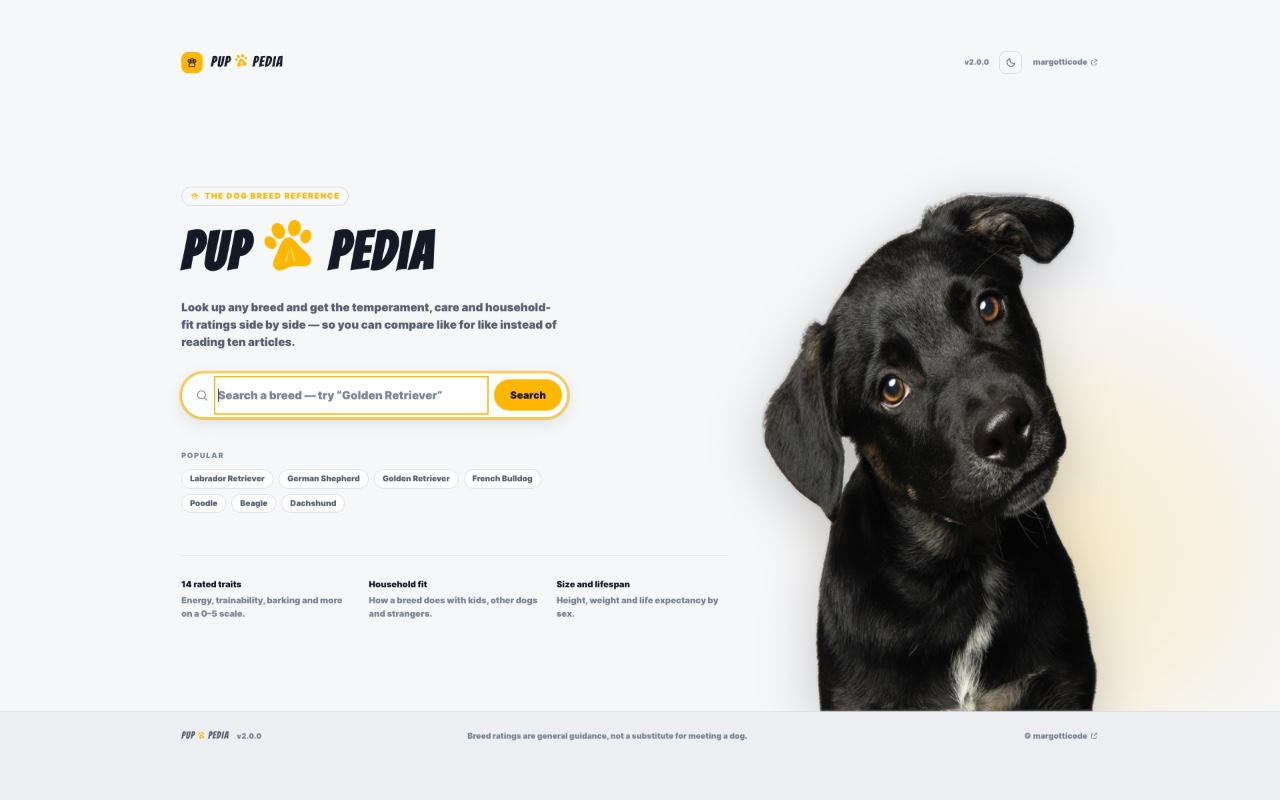
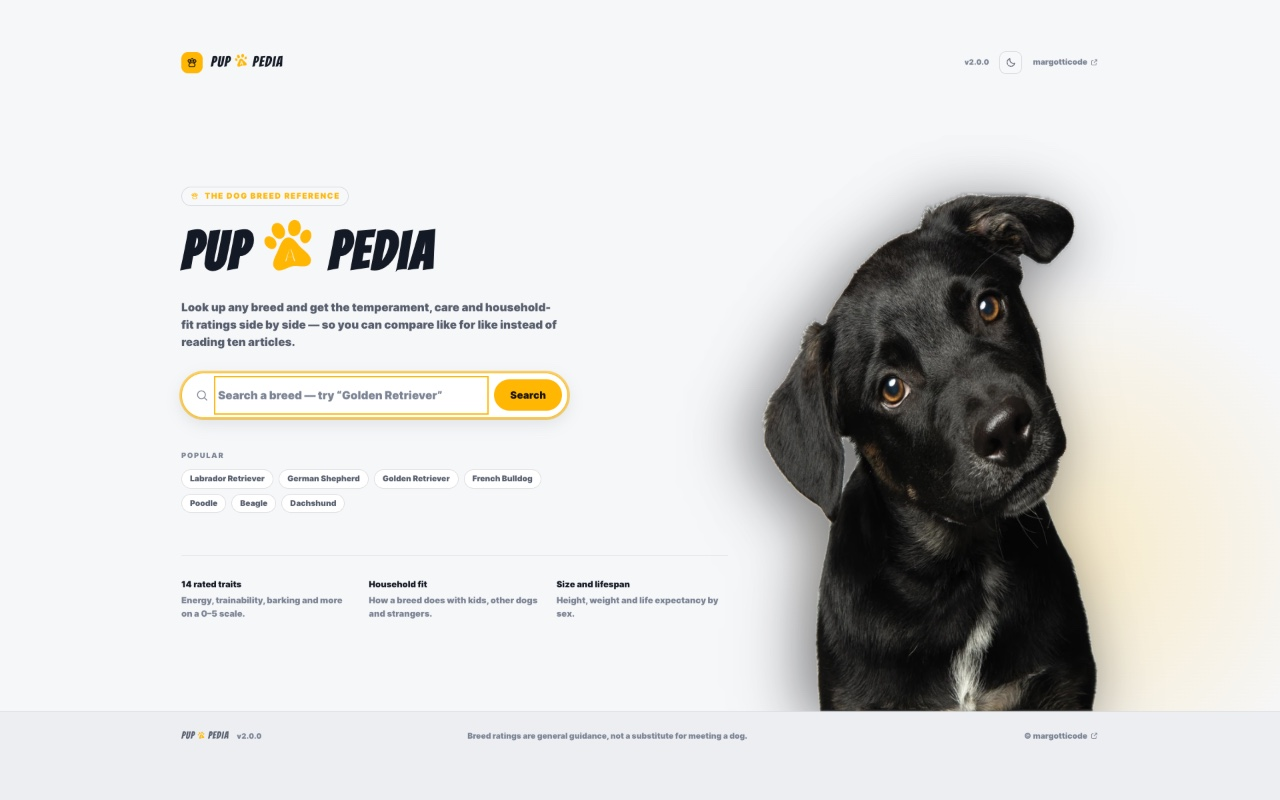
Add serverless proxy so the breed API key stays server-side
Vite inlines any VITE_ variable into the public JS bundle at build time, so
VITE_API_KEY was shipping to every visitor's browser. Vercel's env-add flow
refused to add it non-interactively for exactly that reason.

Fix: api/breeds.js is a serverless function that holds the credential
(DOG_API_URL / DOG_API_KEY, no VITE_ prefix) and proxies the lookup; the
client now calls /api/breeds and never sees the key. Verified the production
bundle no longer contains the key string and does call the new endpoint.

Local `npm run dev` still falls back to calling the upstream API directly
using VITE_API_URL/VITE_API_KEY from Desktop-Version/.env, which only exists
on a developer machine and is never present in the hosting environment.

Also:
- vercel.json at the repo root points the build at Desktop-Version/, since
  the repo root is the separate Expo/React Native app.
- Hero: more pronounced left-side glow shadow behind the cut-out, in addition
  to the grounding shadow below it.
- Regenerated docs/preview.jpg with the new shadow.

diff --git a/Desktop-Version/src/lib/api.js b/Desktop-Version/src/lib/api.js
@@ -1,5 +1,18 @@
-const API_URL = import.meta.env.VITE_API_URL;
-const API_KEY = import.meta.env.VITE_API_KEY;
+/**
+ * Breed search client.
+ *
+ * In production the request goes to /api/breeds, a serverless function that
+ * holds the API key server-side. Nothing secret is ever shipped to the browser.
+ *
+ * For local `npm run dev` (plain Vite, no serverless runtime) the request falls
+ * back to calling the upstream API directly using VITE_ variables from .env.
+ * Those only exist on a developer machine; they are deliberately NOT set in the
+ * hosting environment, so a production build inlines nothing.
+ */
+const PROXY_ENDPOINT = "/api/breeds";
+const DEV_API_URL = import.meta.env.VITE_API_URL;
+const DEV_API_KEY = import.meta.env.VITE_API_KEY;
+const useDirectUpstream = import.meta.env.DEV && Boolean(DEV_API_URL && DEV_API_KEY);
 
 export class BreedSearchError extends Error {
   constructor(message, { kind = "network" } = {}) {
@@ -10,26 +23,25 @@ export class BreedSearchError extends Error {
 }
 
 /**
- * Search the dog breed endpoint by name.
+ * Search breeds by name.
  * `signal` lets a newer search abort an in-flight older one.
  */
 export async function searchBreeds(query, { signal } = {}) {
   const term = query.trim();
 
-  if (!API_URL || !API_KEY) {
-    throw new BreedSearchError(
-      "The breed service is not configured. Add VITE_API_URL and VITE_API_KEY to your .env file.",
-      { kind: "config" }
-    );
-  }
+  const request = useDirectUpstream
+    ? {
+        url: `${DEV_API_URL}=${encodeURIComponent(term)}&offset=0`,
+        init: { method: "GET", headers: { "X-Api-Key": DEV_API_KEY }, signal },
+      }
+    : {
+        url: `${PROXY_ENDPOINT}?name=${encodeURIComponent(term)}`,
+        init: { method: "GET", signal },
+      };
 
   let response;
   try {
-    response = await fetch(`${API_URL}=${encodeURIComponent(term)}&offset=0`, {
-      method: "GET",
-      headers: { "X-Api-Key": API_KEY },
-      signal,
-    });
+    response = await fetch(request.url, request.init);
   } catch (error) {
     if (error?.name === "AbortError") throw error;
     throw new BreedSearchError(
@@ -39,13 +51,23 @@ export async function searchBreeds(query, { signal } = {}) {
   }
 
   if (response.status === 401 || response.status === 403) {
-    throw new BreedSearchError("The breed service rejected our API key.", { kind: "auth" });
+    throw new BreedSearchError("The breed service rejected our credentials.", { kind: "auth" });
   }
 
   if (response.status === 429) {
     throw new BreedSearchError("Too many searches in a row. Give it a moment, then retry.", {
       kind: "rate-limit",
     });
+  }
+
+  if (response.status === 500 || response.status === 404) {
+    // A missing/misconfigured proxy is a setup problem, not a transient one.
+    throw new BreedSearchError(
+      useDirectUpstream
+        ? "The breed service is not configured. Check VITE_API_URL and VITE_API_KEY in .env."
+        : "The breed service is not configured on the server. Set DOG_API_URL and DOG_API_KEY.",
+      { kind: "config" }
+    );
   }
 
   if (!response.ok) {

diff --git a/api/breeds.js b/api/breeds.js
@@ -1,0 +1,45 @@
+/**
+ * Server-side proxy for the breed lookup.
+ *
+ * The key lives only in this function's environment (DOG_API_KEY, no VITE_
+ * prefix, so Vite never sees it and it is never inlined into the browser
+ * bundle). The client calls /api/breeds?name=... and gets the JSON back
+ * without the credential ever leaving the server.
+ */
+export default async function handler(req, res) {
+  const name = String(req.query?.name ?? "").trim();
+
+  if (!name) {
+    return res.status(400).json({ error: "Missing 'name' query parameter." });
+  }
+
+  const apiUrl = process.env.DOG_API_URL;
+  const apiKey = process.env.DOG_API_KEY;
+
+  if (!apiUrl || !apiKey) {
+    return res
+      .status(500)
+      .json({ error: "Breed service is not configured on the server." });
+  }
+
+  try {
+    const upstream = await fetch(
+      `${apiUrl}=${encodeURIComponent(name)}&offset=0`,
+      { headers: { "X-Api-Key": apiKey } }
+    );
+
+    if (!upstream.ok) {
+      // Never forward the upstream body; it can echo request details.
+      return res
+        .status(upstream.status === 429 ? 429 : 502)
+        .json({ error: `Breed service returned ${upstream.status}.` });
+    }
+
+    const data = await upstream.json();
+    // Results are stable; let the edge cache carry repeat lookups.
+    res.setHeader("Cache-Control", "public, s-maxage=86400, stale-while-revalidate=604800");
+    return res.status(200).json(Array.isArray(data) ? data : []);
+  } catch {
+    return res.status(502).json({ error: "Could not reach the breed service." });
+  }
+}

diff --git a/Desktop-Version/src/components/Hero.css b/Desktop-Version/src/components/Hero.css
@@ -52,7 +52,10 @@
   max-width: 46%;
   object-fit: contain;
   object-position: bottom center;
-  filter: drop-shadow(0 22px 38px rgba(0, 0, 0, 0.22));
+  /* Two stacked shadows: one thrown to the left so the silhouette is lit from
+     the right and glows off its left edge, plus the grounding shadow below. */
+  filter: drop-shadow(-26px 8px 40px rgba(0, 0, 0, 0.3))
+    drop-shadow(0 24px 42px rgba(0, 0, 0, 0.28));
 }
 
 .hero__content {
